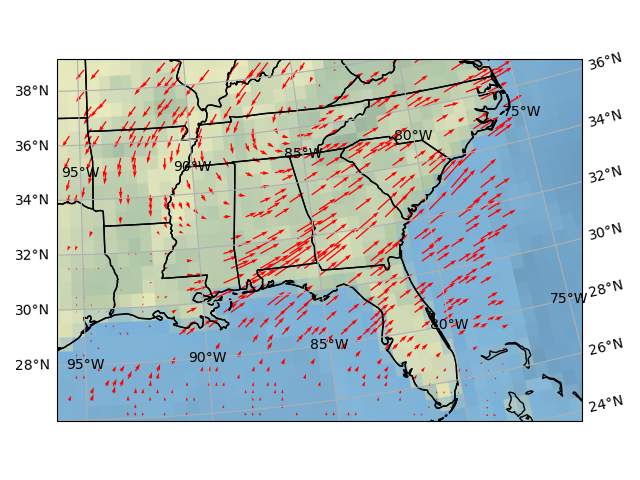
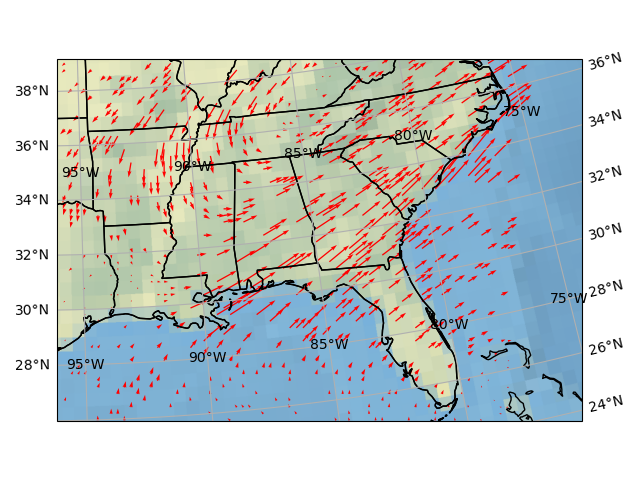
plots

diff --git a/hrrr/datas_pre.py b/hrrr/datas_pre.py
@@ -8,7 +8,7 @@ from main import get_data, model, tools
 
 levels = ["500 mb", "700 mb"]
 extent =[-96, -75, 26, 37]
-dates = [ "2024-08-18", "2024-06-23", "2024-07-21", "2024-09-30", "2024-10-11"] + tools.generate_dates(11)
+dates = [ "2024-08-18", "2024-06-23", "2024-07-24", "2024-09-30", "2024-10-11"] #+ tools.generate_dates(11)
 file_path = f'datas/datas_pre.pkl'
 
 if os.path.exists(file_path):
@@ -26,7 +26,7 @@ for date in dates:
         continue 
     
     for level in levels:
-        T, XY, Z, XY_UV = get_data.hrrr(date=date, level=level, hours=6, extent=extent, factor = 10)
+        T, XY, Z, XY_UV = get_data.hrrr(date=date, level=level, hours=6, extent=extent, factor = 9)
         data_entry = model.data(T, XY, Z, XY_UV)
         data_entry.extent = extent
         data_entry.date = date

diff --git a/main/optimize.py b/main/optimize.py
@@ -75,7 +75,7 @@ def fl_vecchia(data, num_epochs=100):
         
         
     optimizer = torch.optim.AdamW([
-        {'params': flow.parameters(), 'lr':  1e-2, "weight_decay":0.1},
+        {'params': flow.parameters(), 'lr':  1e-2},
         {'params': gp.kernel.base_kernel.parameters(), 'lr': 0.1},
         ])
         
